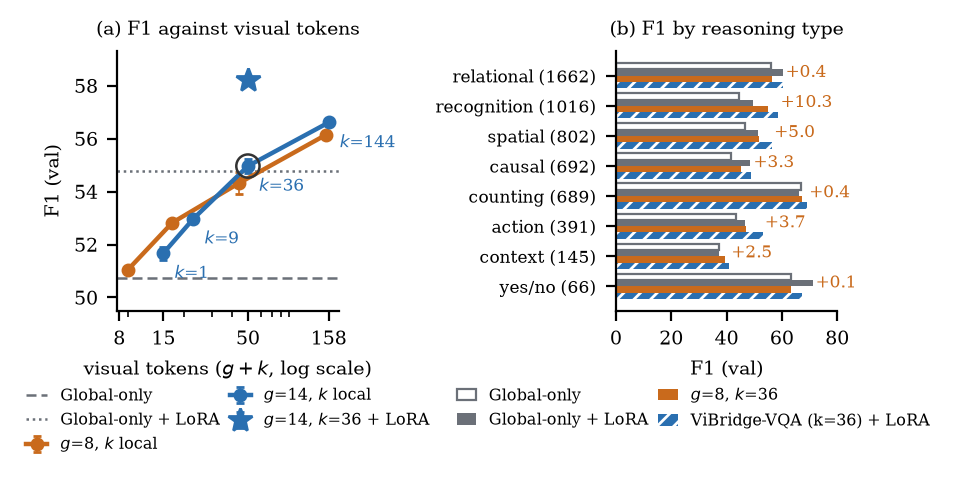
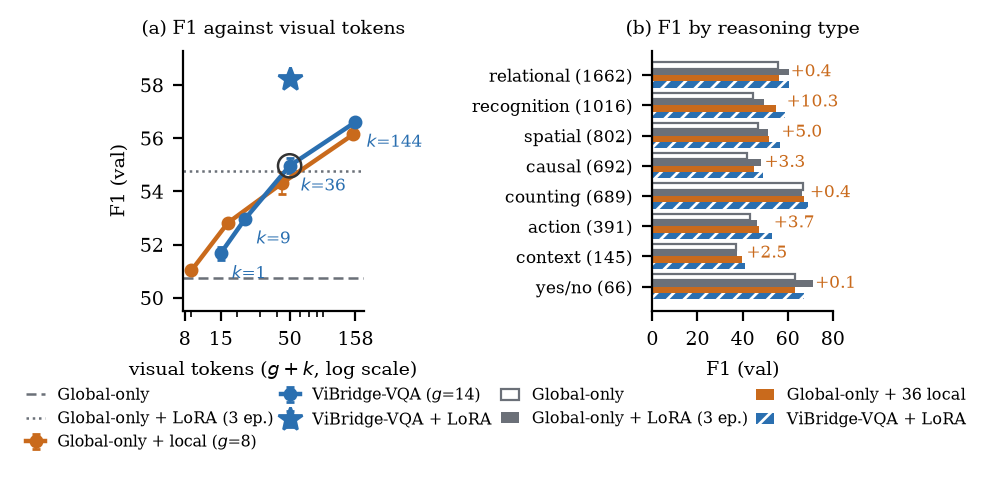
paper(aciids2027): Fig. 2 legends use the paper's names (ViBridge-VQA, Global-only + local, Global-only + LoRA (3 ep.))

diff --git a/paper/aciids2027/figures/make_figures.py b/paper/aciids2027/figures/make_figures.py
@@ -30,16 +30,16 @@ for g, colour in ((8, ORANGE), (14, BLUE)):
     ys = [p["val"]["f1"][0] for p in pts]
     sd = [p["val"]["f1"][1] for p in pts]
     a.errorbar(xs, ys, yerr=sd, color=colour, lw=1.6, marker="o", ms=4, capsize=1.5,
-               elinewidth=0.6, label=f"$g$={g}, $k$ local")
+               elinewidth=0.6, label=("ViBridge-VQA ($g$=14)" if g == 14 else "Global-only + local ($g$=8)"))
     for x, y, k in zip(xs, ys, (1, 9, 36, 144)):
         if g == 14:
             a.annotate(f"$k$={k}", (x, y), textcoords="offset points", xytext=(4, -9),
                        fontsize=6, color=BLUE, ha="left")
 a.axhline(MT8, color=GREY, lw=0.9, ls=(0, (4, 2)), label="Global-only")
-a.axhline(MT8_LORA, color=GREY, lw=0.9, ls=(0, (1, 1.5)), label="Global-only + LoRA")
+a.axhline(MT8_LORA, color=GREY, lw=0.9, ls=(0, (1, 1.5)), label="Global-only + LoRA (3 ep.)")
 L = D["g14-k36+lora1"]                  # selected budget + decoder LoRA (1 epoch)
 a.errorbar([L["tokens"]], [L["val"]["f1"][0]], yerr=[L["val"]["f1"][1]], color=BLUE, marker="*", ms=9,
-           ls="none", capsize=1.5, elinewidth=0.6, label="$g$=14, $k$=36 + LoRA")
+           ls="none", capsize=1.5, elinewidth=0.6, label="ViBridge-VQA + LoRA")
 knee = D["configs"]["g14-k36"]          # circled; named in the caption
 a.scatter([knee["tokens"]], [knee["val"]["f1"][0]], s=70, facecolors="none", edgecolors=INK, lw=0.9, zorder=5)
 a.set_xscale("log")
@@ -47,7 +47,7 @@ a.set_xticks([8, 15, 50, 158]); a.set_xticklabels(["8", "15", "50", "158"])
 a.set_xlabel("visual tokens ($g+k$, log scale)")
 a.set_ylabel("F1 (val)")
 a.set_ylim(49.5, 59.3); a.set_yticks([50, 52, 54, 56, 58])
-a.legend(frameon=False, fontsize=5.8, loc="upper center", bbox_to_anchor=(0.5, -0.24), ncol=2, handlelength=1.3, columnspacing=0.6)
+a.legend(frameon=False, fontsize=5.6, loc="upper center", bbox_to_anchor=(0.42, -0.24), ncol=2, handlelength=1.2, columnspacing=0.5)
 a.set_title("(a) F1 against visual tokens", fontsize=7)
 
 # (b) val F1 by reasoning type (all seeds); numbers: g=8 + 36 local minus global only (same g)
@@ -57,9 +57,9 @@ label = {"yesno": "yes/no"}
 y = list(range(len(order)))[::-1]
 h = 0.21
 SERIES = (("global_only", dict(facecolor="white", edgecolor=GREY, lw=0.8), "Global-only"),
-          ("global_only+lora3ep", dict(color=GREY), "Global-only + LoRA"),
-          ("g8-k36", dict(color=ORANGE), "$g$=8, $k$=36"),
-          ("g14-k36+lora1", dict(facecolor=BLUE, edgecolor="white", hatch="////", lw=0), "ViBridge-VQA (k=36) + LoRA"))   # colours as in (a): grey = global only, orange = g=8, blue = g=14
+          ("global_only+lora3ep", dict(color=GREY), "Global-only + LoRA (3 ep.)"),
+          ("g8-k36", dict(color=ORANGE), "Global-only + 36 local"),
+          ("g14-k36+lora1", dict(facecolor=BLUE, edgecolor="white", hatch="////", lw=0), "ViBridge-VQA + LoRA"))   # colours as in (a): grey = global only, orange = g=8, blue = g=14
 for i, (key, kw, lab) in enumerate(SERIES):
     b.barh([k + (1.5 - i) * h for k in y], [P[key][c]["f1"] for c in order], h, label=lab, **kw)
 for k, c in zip(y, order):
@@ -69,7 +69,7 @@ for k, c in zip(y, order):
 b.set_yticks(y)
 b.set_yticklabels([f"{label.get(c, c)} ({P['g14-k36'][c]['n']})" for c in order], fontsize=6.3)
 b.set_xlim(0, 80); b.set_xticks([0, 20, 40, 60, 80]); b.set_xlabel("F1 (val)")
-b.legend(frameon=False, fontsize=5.8, loc="upper center", bbox_to_anchor=(0.35, -0.24), ncol=2, columnspacing=0.6, handlelength=1.2)
+b.legend(frameon=False, fontsize=5.6, loc="upper center", bbox_to_anchor=(0.45, -0.24), ncol=2, columnspacing=0.5, handlelength=1.2)
 b.set_title("(b) F1 by reasoning type", fontsize=7)
 
 fig.tight_layout(w_pad=1.5)
